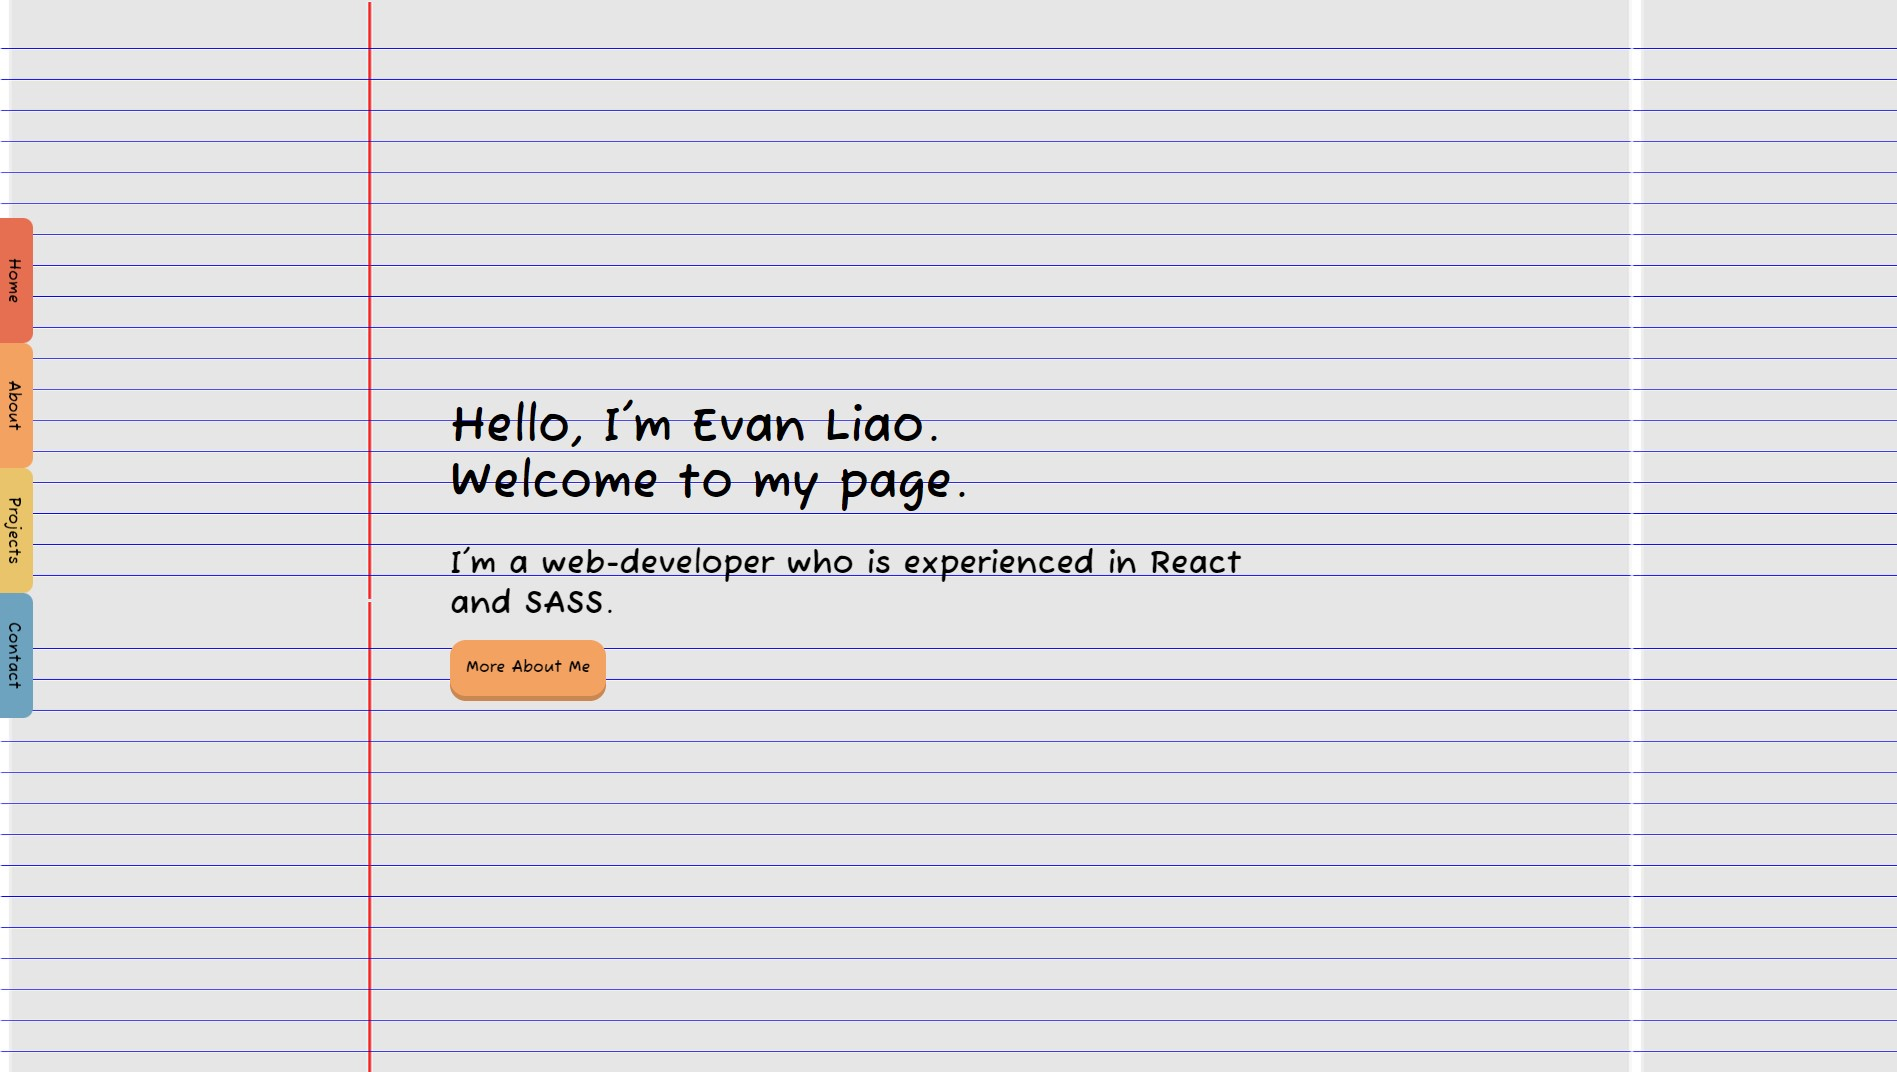
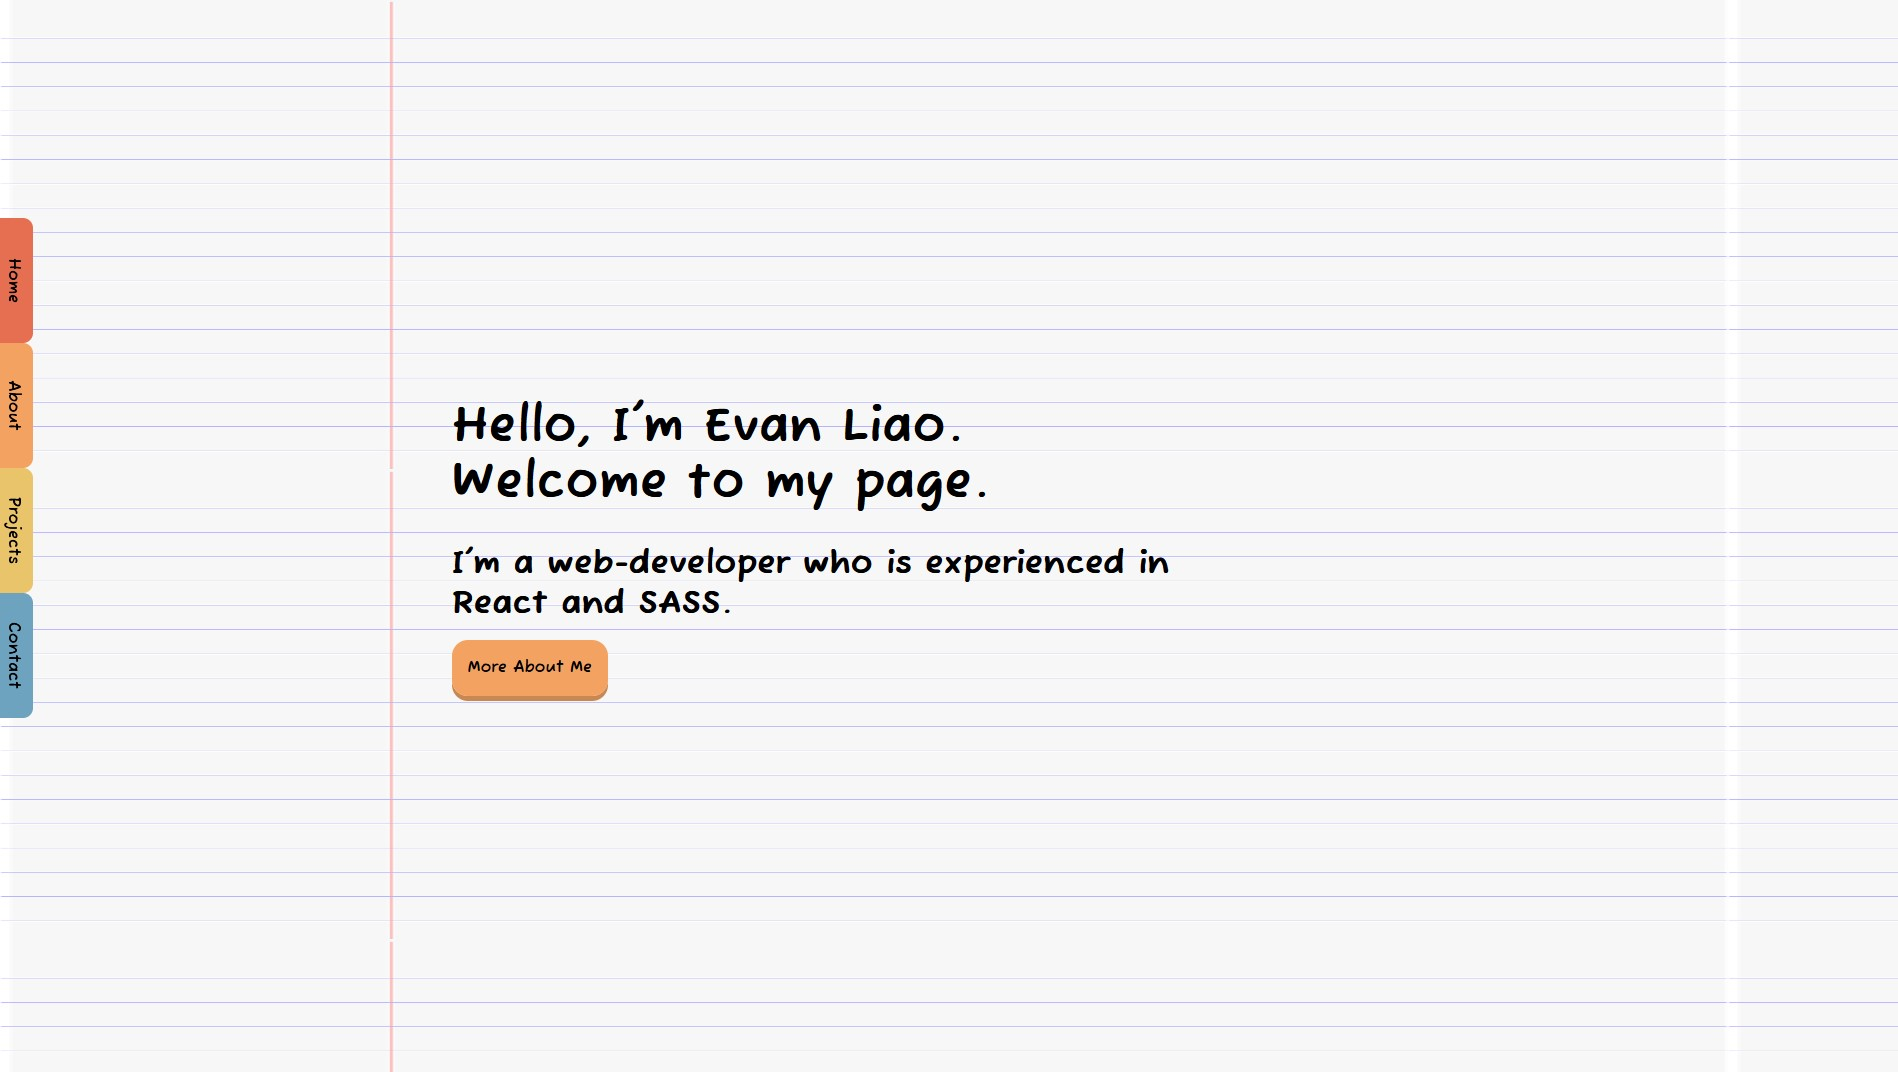
made improvements

Changed region(s): [[0.0, 0.0, 1.0, 1.0]]

diff --git a/public/index.html b/public/index.html
@@ -1,19 +1,21 @@
 <!DOCTYPE html>
 <html lang="en">
-
-<head>
-  <meta charset="utf-8" />
-  <link rel="icon" href="%PUBLIC_URL%/favicon.ico" />
-  <meta name="viewport" content="width=device-width, initial-scale=1" />
-  <meta name="theme-color" content="#000000" />
-  <meta name="description" content="Web site created using create-react-app" />
-  <link rel="apple-touch-icon" href="%PUBLIC_URL%/logo192.png" />
-  <!--
+  <head>
+    <meta charset="utf-8" />
+    <link rel="icon" href="%PUBLIC_URL%/favicon.ico" />
+    <meta name="viewport" content="width=device-width, initial-scale=1" />
+    <meta name="theme-color" content="#000000" />
+    <meta
+      name="description"
+      content="Evan Liao's personal portfolio created using React and Sass."
+    />
+    <link rel="apple-touch-icon" href="%PUBLIC_URL%/logo192.png" />
+    <!--
       manifest.json provides metadata used when your web app is installed on a
       user's mobile device or desktop. See https://developers.google.com/web/fundamentals/web-app-manifest/
     -->
-  <link rel="manifest" href="%PUBLIC_URL%/manifest.json" />
-  <!--
+    <link rel="manifest" href="%PUBLIC_URL%/manifest.json" />
+    <!--
       Notice the use of %PUBLIC_URL% in the tags above.
       It will be replaced with the URL of the `public` folder during the build.
       Only files inside the `public` folder can be referenced from the HTML.
@@ -22,13 +24,13 @@
       work correctly both with client-side routing and a non-root public URL.
       Learn how to configure a non-root public URL by running `npm run build`.
     -->
-  <title>Evan's Portfolio</title>
-</head>
+    <title>Evan Liao's Portfolio</title>
+  </head>
 
-<body>
-  <noscript>You need to enable JavaScript to run this app.</noscript>
-  <div id="root"></div>
-  <!--
+  <body>
+    <noscript>You need to enable JavaScript to run this app.</noscript>
+    <div id="root"></div>
+    <!--
       This HTML file is a template.
       If you open it directly in the browser, you will see an empty page.
 
@@ -38,6 +40,5 @@
       To begin the development, run `npm start` or `yarn start`.
       To create a production bundle, use `npm run build` or `yarn build`.
     -->
-</body>
-
+  </body>
 </html>

diff --git a/src/styles/_about.scss b/src/styles/_about.scss
@@ -48,27 +48,27 @@
     box-shadow: 0 5px 0 $navcolorprojectssecondary;
   }
 
-  .image-frame {
-    padding: 1rem;
-    display: inline-block;
-    border: 3px solid #333333;
-    border-radius: 2% 6% 5% 4% / 1% 1% 2% 4%;
-    background: #ffffff;
-    position: relative;
+  //   .image-frame {
+  //     padding: 1rem;
+  //     display: inline-block;
+  //     border: 3px solid #333333;
+  //     border-radius: 2% 6% 5% 4% / 1% 1% 2% 4%;
+  //     background: #ffffff;
+  //     position: relative;
 
-    &::before {
-      content: "";
-      border: 2px solid #353535;
-      display: block;
-      width: 100%;
-      height: 100%;
-      position: absolute;
-      top: 50%;
-      left: 50%;
-      transform: translate3d(-50%, -50%, 0) scale(1.015) rotate(0.5deg);
-      border-radius: 1% 1% 2% 4% / 2% 6% 5% 4%;
-    }
-  }
+  //     &::before {
+  //       content: "";
+  //       border: 2px solid #353535;
+  //       display: block;
+  //       width: 100%;
+  //       height: 100%;
+  //       position: absolute;
+  //       top: 50%;
+  //       left: 50%;
+  //       transform: translate3d(-50%, -50%, 0) scale(1.015) rotate(0.5deg);
+  //       border-radius: 1% 1% 2% 4% / 2% 6% 5% 4%;
+  //     }
+  //   }
 }
 
 @media screen and (min-width: 48rem) {

diff --git a/src/styles/_body.scss b/src/styles/_body.scss
@@ -2,10 +2,43 @@ body {
   margin: 0;
   position: relative;
   min-height: 100vh;
-  background-image: url("../image/line-paper.png");
-  background-size: 90vw 470px;
+
+  &::before {
+    content: "";
+    background-image: url("../image/line-paper.png");
+    background-size: 90vw 470px;
+    position: absolute;
+    left: 0;
+    top: 0;
+    bottom: 0;
+    right: 0;
+    opacity: 0.3;
+    z-index: -1;
+  }
 
   @media screen and (min-width: 60rem) {
     background-size: 85vw 600px;
+  }
+
+  .image-frame {
+    padding: 1rem;
+    display: inline-block;
+    border: 3px solid #333333;
+    border-radius: 2% 6% 5% 4% / 1% 1% 2% 4%;
+    background: #ffffff;
+    position: relative;
+
+    &::before {
+      content: "";
+      border: 2px solid #353535;
+      display: block;
+      width: 100%;
+      height: 100%;
+      position: absolute;
+      top: 50%;
+      left: 50%;
+      transform: translate3d(-50%, -50%, 0) scale(1.015) rotate(0.5deg);
+      border-radius: 1% 1% 2% 4% / 2% 6% 5% 4%;
+    }
   }
 }

diff --git a/src/data/projects-data.js b/src/data/projects-data.js
@@ -130,7 +130,7 @@ const projectsData = [
         team: "Myself",
         role: "Developer/designer",
         liveSiteLink: "https://www.evanwliao.com/",
-        githubLink: "https://github.com/",
+        githubLink: "https://github.com/eliao13/web-portfolio-project",
         overview:
           "Portfolio project was developed to showcase my skills as a developer. This project was developed using React and Sass. Wireframes were done through Figma and high fidelity mockup was done through Adobe XD.",
         development: [

diff --git a/src/components/ProjectModal.js b/src/components/ProjectModal.js
@@ -58,7 +58,7 @@ function ProjectModal({ handleClose, open, singleProjectDetail }) {
           </IconButton>
           <section className="project-info">
             <img
-              className="project-screenshot"
+              className="project-screenshot image-frame"
               src={singleProjectDetail.responsiveSampleImage}
               alt={`Sample screenshot of ${singleProjectDetail.title}`}
             />

diff --git a/src/components/ProjectCard.js b/src/components/ProjectCard.js
@@ -16,7 +16,11 @@ function ProjectCard({ project }) {
 
   return (
     <article className="card">
-      <img src={project.sampleImage} alt={`screen shot of ${project.title}`} />
+      <img
+        className="image-frame"
+        src={project.sampleImage}
+        alt={`screen shot of ${project.title}`}
+      />
 
       <h3>{project.title}</h3>
 

diff --git a/src/styles/_contact.scss b/src/styles/_contact.scss
@@ -1,13 +1,14 @@
 .contact {
   text-align: center;
-  margin: 5rem 0;
-  padding: 5rem 0;
+  margin-top: 5rem;
+  padding-top: 5rem;
+  padding-bottom: 10rem;
 }
 
 @media screen and (min-width: 60rem) {
   .contact {
     margin-top: 20rem;
     padding-top: 10rem;
-    margin-bottom: 20rem;
+    padding-bottom: 20rem;
   }
 }
